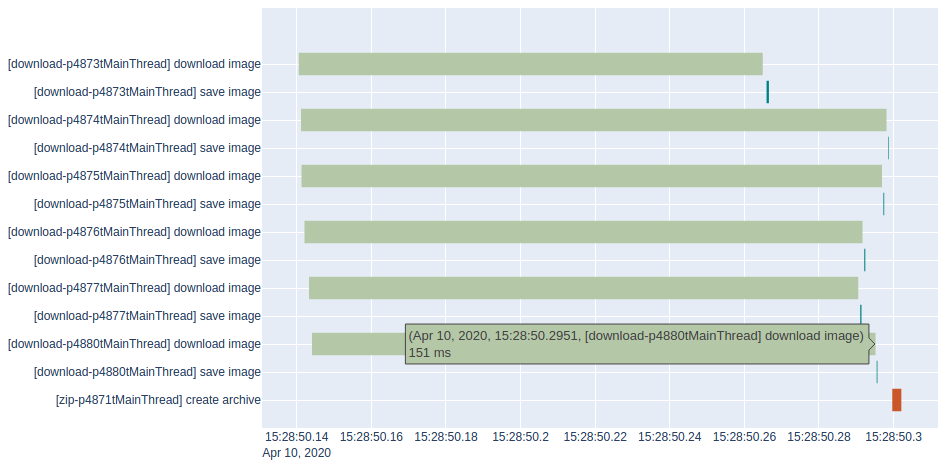
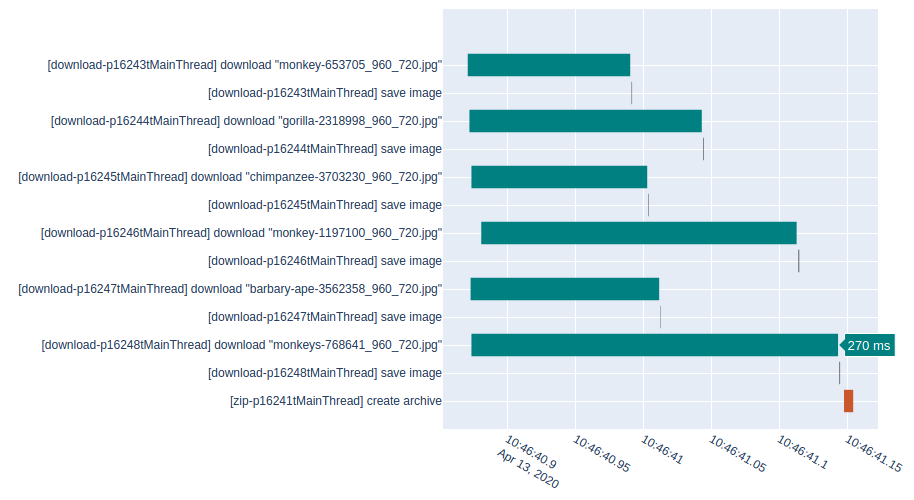
Add checks when starting and dumping an instance, set task-related properties as private, update README

diff --git a/performancepy.py b/performancepy.py
@@ -1,20 +1,17 @@
 #!/usr/bin/python3
 """
-Records performance of one or more simultaneously running python scripts.
+Records performance of running python scripts to find bottlenecks.
 
 Using of this module consists of two steps.
 
 Step 1
 ======
-It is imported and initiated in all scripts that are to be measured.
+It is imported and instantiated in all scripts that are to be measured.
 When the scripts are executed, PerformancePy automatically generates
 performance records in CSV format.
 
 Example:
-    import sys
     import time
-
-    sys.path.append('/path/to/performancepy')
     from performancepy import PerformancePy
 
     pp = PerformancePy('producer', '/path/to/records')
@@ -59,12 +56,14 @@ class PerformancePy:
         self.bias = bias * 60
 
         # Properties related to each task
-        self.start_time = None
-        self.task = None
-        self.color = None
+        self._start_time = None
+        self._task = None
+        self._color = None
 
     def _get_filepath(self, directory):
         directory_fullpath = os.path.realpath(directory)
+        if not os.path.exists(directory_fullpath):
+            os.makedirs(directory_fullpath)
         filename = '{}-{}.csv'.format(self.group, os.getpid())
         return os.path.join(directory_fullpath, filename)
 
@@ -78,33 +77,40 @@ class PerformancePy:
                 If not specified, PerformancePy will automatically assign it a color
                 when generating the chart.
         """
-        self.start_time = datetime.datetime.now(
+        if self._start_time is not None:
+            raise RuntimeError('PerformancePy is already running. Use .dump() to stop it first.')
+
+        self._start_time = datetime.datetime.now(
             tz=datetime.timezone(datetime.timedelta(seconds=self.bias)))
-        self.task = task
-        self.color = color
+        self._task = task
+        self._color = color
 
     def dump(self):
         """
         Ends a task and dumps its duration to the record file.
         """
+        if self._start_time is None:
+            raise RuntimeError('PerformancePy is not running. Use .start() to start it first.')
+
         end_time = datetime.datetime.now(
             tz=datetime.timezone(datetime.timedelta(seconds=self.bias)))
-        duration = end_time - self.start_time
+        duration = end_time - self._start_time
         duration = round(duration.total_seconds() * 1000)
         task_name = '[{}-p{}t{}] {}'.format(
             self.group,
             os.getpid(),
             threading.current_thread().getName(),
-            self.task)
+            self._task)
         row = '{},{},{},{} ms,{}\n'.format(
             task_name,
-            self.start_time.strftime('%Y-%m-%d %H:%M:%S.%f'),
+            self._start_time.strftime('%Y-%m-%d %H:%M:%S.%f'),
             end_time.strftime('%Y-%m-%d %H:%M:%S.%f'),
             duration,
-            self.color
+            self._color
             )
         with open(self.filepath, 'a') as df_file:
             df_file.write(row)
+        self._start_time = None
 
 
 if __name__ == '__main__':

diff --git a/README.md b/README.md
@@ -2,7 +2,9 @@
 
 PerformancePy records performance of running python scripts to find bottlenecks.
 
-When used in a single script which executes sequentially, it renders a simple waterfall diagram. The main use is, however, to measure execution times of scripts executed **in parallel** - whether in multiple **threats** or **processes**. The diagram rendered by PerformancePy helps to quickly inspect the execution times of individual blocks of code and find bottlenecks.
+![](images/chart_example.png)
+
+When used in a single script which executes sequentially, it renders a simple waterfall diagram. The main use is, however, to measure execution times of scripts executed **in parallel** - whether in multiple **threats** or **processes**. The diagram rendered by PerformancePy helps to quickly inspect the execution times of individual blocks of code to find bottlenecks.
 
 It is not meant to measure the performance of isolated code snippets down to microseconds - for that you can use [`timeit`](https://docs.python.org/3/library/timeit.html) module. PerformancePy works with somewhat more coarse values in the millisecond range. Pull requests are welcome.
 
@@ -35,6 +37,8 @@ We want to visualize parallel download of multiple images and their compression 
 import os
 import sys
 import multiprocessing
+from urllib.parse import urlparse
+
 from zipfile import ZipFile
 
 import requests
@@ -50,15 +54,18 @@ def download(url):
     # and time zone bias for GMT+8 is 480 minutes.
     pp_download = PerformancePy('download', '/path/to/records', 480)
 
-    # Start 'download image' task
-    pp_download.start('download image')
+    image_name = os.path.basename(urlparse(url).path)
+
+    # Start 'download image' task and specify its color
+    pp_download.start('download "{}"'.format(image_name), '#008080')
     image = requests.get(url)
     # The 'download image' task is done, dump its execution time
     pp_download.dump()
 
-    # Start 'save image' task
-    pp_download.start('save image')
-    open(url.split('/')[-1], 'wb').write(image.content)
+    # Start 'save image' task and specify its color
+    pp_download.start('save image', '#000000')
+    with open(image_name, 'wb') as image_file:
+        image_file.write(image.content)
     # The 'save image' task is done, dump its execution time
     pp_download.dump()
 
@@ -74,7 +81,7 @@ if __name__ == '__main__':
     ]
 
     processes = []
-    for i, url in enumerate(images):
+    for url in images:
         p = multiprocessing.Process(target=download, args=(url,))
         processes.append(p)
         p.start()
@@ -84,8 +91,8 @@ if __name__ == '__main__':
 
     # Zipping the downloaded images is another task group called 'zip'
     pp_zip = PerformancePy('zip', '/path/to/records', 480)
-    # Start 'zip' task and specify its color
-    pp_zip.start('create archive', '#ca562c')
+    # Start 'zip' task without specifying its color
+    pp_zip.start('create archive')
     with ZipFile('images.zip', 'w') as zip_archive:
         for file in os.listdir('.'):
             if not file.endswith('.jpg'):
